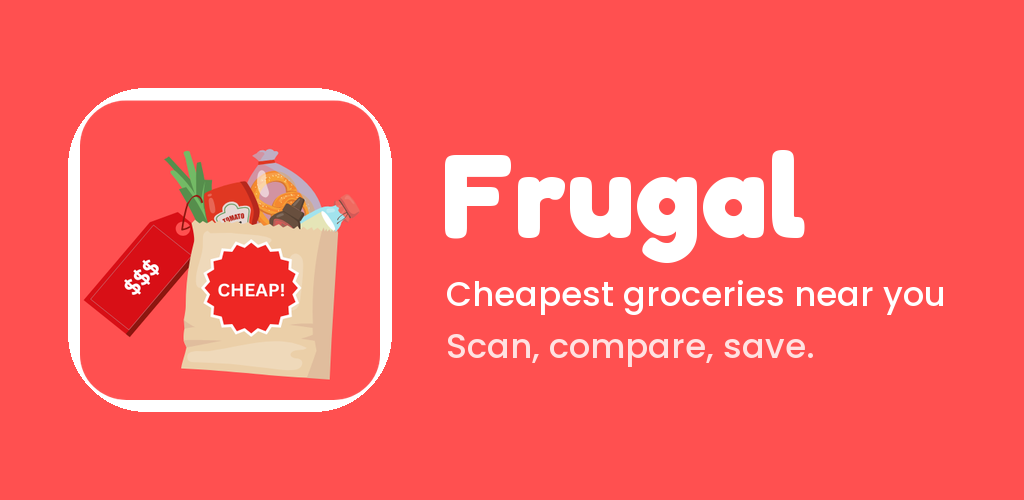
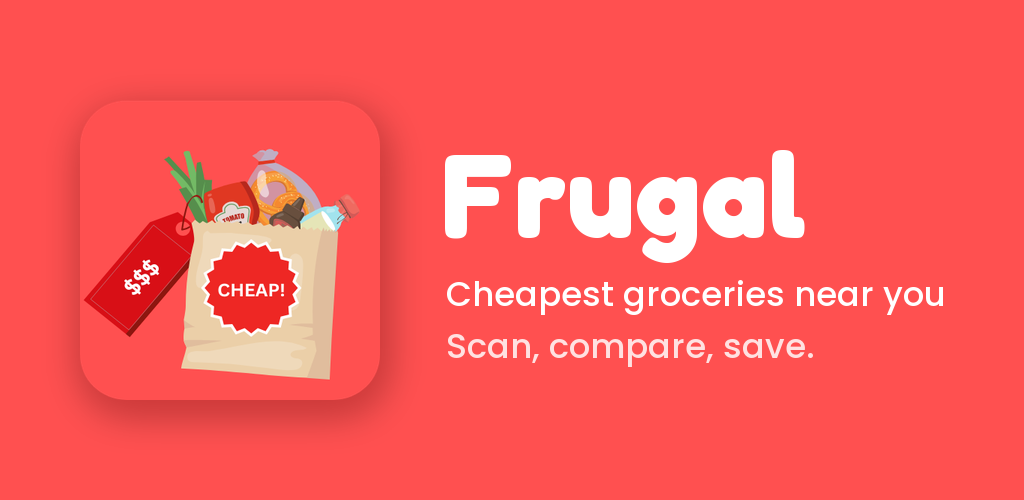
Read pack sizes from product photos, judge every listing, search major chains first

Changed region(s): [[0.0625, 0.21, 0.4062, 0.87], [0.0938, 0.15, 0.3438, 0.21]]

diff --git a/proxy/src/index.ts b/proxy/src/index.ts
@@ -15,7 +15,7 @@
  */
 
 import { extractResults, normalize, parseSize, rank, ShopItem, unitPriceOf, Unit } from './shopping';
-import { chainShortName, estimateSizes, identifyWithWorkersAi, judge, rerank, rewriteQuery, Identified } from './ai';
+import { chainShortName, estimateSizes, identifyWithWorkersAi, judge, readSizesFromPhotos, rerank, rewriteQuery, Identified } from './ai';
 import brandIndex from '../../src/services/brandIndex.json';
 
 interface Env {
@@ -155,7 +155,7 @@ async function canonicalLocation(location: string, gl: string, ctx: ExecutionCon
 const DOMAINS: Record<string, string> = { ca: 'google.ca', us: 'google.com', gb: 'google.co.uk', au: 'google.com.au', ie: 'google.ie', nz: 'google.co.nz', in: 'google.co.in' };
 const CACHE_SECONDS = 6 * 3600; // prices barely move within hours; caching saves quota and makes repeat searches instant
 // Bump whenever ranking/AI logic changes so users never see results ranked by old logic.
-const RANK_VERSION = 19;
+const RANK_VERSION = 26;
 
 type Query = { q: string; gl: string; location: string };
 type Raw = { r: any; nearbyGroup: boolean }[];
@@ -257,7 +257,13 @@ function chainOf(name: string, country: string): { id: string; name: string } | 
   return null;
 }
 
-const CHAIN_COUNT = 3;
+const CHAIN_COUNT = 5;
+// Where most people actually shop (Wikidata ids). Always searched first when there's one near the
+// shopper; the remaining slots go to whichever chains have the most branches nearby.
+const MAJOR_CHAINS: Record<string, string[]> = {
+  CA: ['Q483551' /* Walmart */, 'Q7300856' /* Real Canadian Superstore */, 'Q715583' /* Costco */],
+  US: ['Q483551' /* Walmart */, 'Q715583' /* Costco */, 'Q153417' /* Kroger */, 'Q1046951' /* Target */],
+};
 const CHAIN_RADIUS_KM = 15;
 const CHAIN_DEADLINE_MS = 14000;
 
@@ -269,7 +275,7 @@ async function nearbyChains(env: Env, lat: number, lon: number, gl: string, ctx:
   if (!env.STORES_DB || !isFinite(lat) || !isFinite(lon)) return [];
   const tLat = Math.round(lat * 10) / 10;
   const tLon = Math.round(lon * 10) / 10;
-  const key = `chains/v1/${gl}/${tLat}/${tLon}`;
+  const key = `chains/v2/${gl}/${tLat}/${tLon}`;
   const hit = await cacheGet(key);
   if (hit) return hit.chains;
 
@@ -292,9 +298,10 @@ async function nearbyChains(env: Env, lat: number, lon: number, gl: string, ctx:
     t.nearest = Math.min(t.nearest, km);
     tally.set(chain.id, t);
   }
+  const major = (id: string) => (MAJOR_CHAINS[country] ?? []).includes(id);
   const chains = [...tally.values()]
-    .filter((c) => c.count >= 2) // a real presence in the area, not a one-off
-    .sort((a, b) => b.count - a.count || a.nearest - b.nearest)
+    .filter((c) => major(c.id) || c.count >= 2) // a real presence in the area, not a one-off
+    .sort((a, b) => Number(major(b.id)) - Number(major(a.id)) || b.count - a.count || a.nearest - b.nearest)
     .slice(0, CHAIN_COUNT)
     .map(({ id, name }) => ({ id, name }));
   ctx.waitUntil(cachePut(key, { chains }, 7 * 86400));
@@ -417,7 +424,7 @@ async function shopping(url: URL, env: Env, ctx: ExecutionContext) {
   // "fresh apples produce", not iPhones). Cached for 30 days per search term.
   const [searchQ, chains] = await Promise.all([groceryQuery(env, q, ctx), nearbyChains(env, lat, lon, gl, ctx).catch(() => [])]);
   const started = Date.now();
-  const budget = { serp: 1 };
+  const budget = { serp: 2 };
   // Chain searches start now, in parallel with the general one; they're merged in step 3.
   const chainJob =
     env.BRIGHTDATA_API_KEY && chains.length
@@ -481,7 +488,42 @@ async function shopping(url: URL, env: Env, ctx: ExecutionContext) {
   return json(first, 200, { 'X-Source': found.source });
 }
 
+/**
+ * Each listing's product photo as a data URL, for reading the size off the package. Bright Data
+ * photos come from this search's image bundle (no download); others are fetched (capped).
+ */
+async function photosFor(items: ShopItem[]): Promise<(string | undefined)[]> {
+  const refs = items.map((i) => i.thumbnail?.match(/\/img\/([^/]+)\/([^/?#]+)$/));
+  const bundles = new Map<string, any>();
+  await Promise.all([...new Set(refs.filter(Boolean).map((m) => m![1]))].map(async (b) => bundles.set(b, await cacheGet(`imgs/${b}`))));
+  let fetched = 0;
+  return Promise.all(
+    items.map(async (it, i) => {
+      const m = refs[i];
+      if (m) {
+        const e = bundles.get(m[1])?.[m[2]];
+        return e ? `data:${e[0]};base64,${e[1]}` : undefined;
+      }
+      if (!it.thumbnail || !/^https:/.test(it.thumbnail) || fetched >= MAX_PHOTO_FETCHES) return undefined;
+      fetched++;
+      try {
+        const res = await withDeadline(fetch(it.thumbnail), 4000);
+        const buf = new Uint8Array(await res.arrayBuffer());
+        if (!res.ok || buf.length > 250000) return undefined;
+        let bin = '';
+        for (let j = 0; j < buf.length; j++) bin += String.fromCharCode(buf[j]);
+        return `data:${res.headers.get('content-type') ?? 'image/jpeg'};base64,${btoa(bin)}`;
+      } catch {
+        return undefined;
+      }
+    }),
+  );
+}
+
+const MAX_PHOTO_FETCHES = 12;
+
 const JUDGE_BATCH = 30;
+const MAX_BATCHES = 4;
 
 /**
  * Phase 1: judge the first results (what the shopper meant, missing sizes) in one AI call.
@@ -497,14 +539,50 @@ async function refine(url: URL, env: Env) {
   if (phase === 1 && current.judged) return json({ ok: true, skipped: true });
 
   const items: ShopItem[] = current.items.map((i: ShopItem) => ({ ...i }));
-  const known = phase === 2 && current.judged && current.meaning ? { meaning: current.meaning as string, unit: (current.unit ?? undefined) as Unit | undefined } : undefined;
+  const judgedAs = (m: string) => items.filter((i) => i.match === m).slice(0, 8).map((i) => i.title);
+  const known =
+    phase === 2 && current.judged && current.meaning
+      ? { meaning: current.meaning as string, unit: (current.unit ?? undefined) as Unit | undefined, exact: judgedAs('exact'), variant: judgedAs('variant') }
+      : undefined;
   const todo = items.filter((i) => !i.match);
-  const candidates = [...todo].sort((a, b) => (b.score ?? 0) - (a.score ?? 0)).slice(0, JUDGE_BATCH);
-  // What the shopper meant, and likely sizes for listings that don't state one: two AI calls at once.
+  // Every listing gets judged (a store's best deal can be anywhere in the list), in batches that run
+  // at the same time. The first batch settles what the shopper meant; the others are told, so they agree.
+  const candidates = [...todo].sort((a, b) => (b.score ?? 0) - (a.score ?? 0)).slice(0, JUDGE_BATCH * MAX_BATCHES);
+  const batches: ShopItem[][] = [];
+  for (let i = 0; i < candidates.length; i += JUDGE_BATCH) batches.push(candidates.slice(i, i + JUDGE_BATCH));
   const unsized = candidates.filter((c) => !c.size);
-  const [verdict, guesses] = candidates.length
-    ? await Promise.all([judge(env, q, candidates.map((c) => c.title), known), estimateSizes(env, q, unsized.map((c) => c.title))])
-    : [null, null];
+  const sizeBatches: ShopItem[][] = [];
+  for (let i = 0; i < unsized.length; i += JUDGE_BATCH) sizeBatches.push(unsized.slice(i, i + JUDGE_BATCH));
+
+  // Stated sizes (not earlier estimates) as price references, spread across sizes.
+  const references = items
+    .filter((i) => i.size && !i.size.estimated)
+    .sort((a, b) => a.size!.amount - b.size!.amount)
+    .filter((_, i, all) => all.length <= 14 || i % Math.ceil(all.length / 14) === 0)
+    .map((i) => ({ title: i.title, price: i.price, size: i.size!.label }));
+  const sizeJob = Promise.all(sizeBatches.map((b) => estimateSizes(env, q, b.map((c) => ({ title: c.title, price: c.price })), references)));
+  // The size printed on the package, read from each listing's photo: the real size, not a guess.
+  const photoJob = photosFor(unsized).then((imgs) => {
+    const withImg = unsized.map((c, i) => ({ c, image: imgs[i] })).filter((x): x is { c: ShopItem; image: string } => !!x.image);
+    return readSizesFromPhotos(env, withImg.map((x) => ({ title: x.c.title, image: x.image }))).then(
+      (sizes) => new Map(withImg.map((x, i) => [x.c, sizes[i]] as const)),
+    );
+  });
+  const first = batches.length ? await judge(env, q, batches[0].map((c) => c.title), known) : null;
+  const rest = first
+    ? await Promise.all(
+        batches.slice(1).map((b) =>
+          judge(env, q, b.map((c) => c.title), {
+            meaning: first.meaning,
+            unit: first.unit,
+            exact: batches[0].filter((_, i) => first.exact.has(i)).slice(0, 8).map((c) => c.title),
+            variant: batches[0].filter((_, i) => first.variant.has(i)).slice(0, 8).map((c) => c.title),
+          }),
+        ),
+      )
+    : [];
+  const verdict = first;
+  const guesses = (await sizeJob).flatMap((g, i) => g ?? sizeBatches[i].map(() => null));
 
   if (!verdict) {
     // Nothing (more) to judge, or the AI is unavailable: keep what we have, mark as done.
@@ -514,19 +592,29 @@ async function refine(url: URL, env: Env) {
   }
 
   const unit = verdict.unit;
-  candidates.forEach((c, idx) => {
-    c.match = verdict.exact.has(idx) ? 'exact' : verdict.variant.has(idx) ? 'variant' : 'related';
+  batches.forEach((batch, b) => {
+    const v = b === 0 ? verdict : rest[b - 1];
+    batch.forEach((c, idx) => {
+      c.match = !v ? 'related' : v.exact.has(idx) ? 'exact' : v.variant.has(idx) ? 'variant' : 'related';
+    });
   });
+  const fromPhotos = await photoJob.catch(() => new Map<ShopItem, string | null>());
+  const toSize = (text: string | null | undefined) => {
+    if (!text || !unit) return undefined;
+    let size = parseSize(text);
+    const n = parseFloat(text);
+    if (!size && unit === 'each' && n > 0) size = { amount: n, unit: 'each' as const, label: `${n} ct` };
+    return size && size.unit === unit ? size : undefined;
+  };
   unsized.forEach((c, idx) => {
-    const guess = guesses?.[idx];
-    if (!guess || c.match === 'related' || !unit) return;
-    let size = parseSize(guess);
-    const n = parseFloat(guess);
-    if (!size && unit === 'each' && n > 0) size = { amount: n, unit: 'each', label: `${n} ct` };
-    if (size && size.unit === unit) {
-      c.size = { ...size, estimated: true };
-      c.unitPrice = unitPriceOf(c.price, c.size);
-    }
+    if (c.match === 'related') return;
+    // Printed on the package beats the AI's estimate (which stays marked "est.").
+    const printed = toSize(fromPhotos.get(c));
+    const guessed = printed ? undefined : toSize(guesses?.[idx]);
+    const size = printed ?? guessed;
+    if (!size) return;
+    c.size = { ...size, estimated: !printed };
+    c.unitPrice = unitPriceOf(c.price, c.size);
   });
   const byId = new Map(candidates.map((c) => [c.id + c.seller + c.title + c.price, c]));
   const refined = items.map((i) => byId.get(i.id + i.seller + i.title + i.price) ?? { ...i, match: i.match ?? 'related' });

diff --git a/proxy/src/ai.ts b/proxy/src/ai.ts
@@ -10,6 +10,12 @@ const RERANKER = '@cf/baai/bge-reranker-base';
 const JUDGE = '@cf/meta/llama-3.3-70b-instruct-fp8-fast';
 const VISION = '@cf/meta/llama-4-scout-17b-16e-instruct';
 
+/** The reply text or object, whichever shape the model returns (Llama, OpenAI-style or Responses-style). */
+const replyOf = (out: any) =>
+  out?.response ??
+  out?.choices?.[0]?.message?.content ??
+  out?.output?.find?.((o: any) => o.type === 'message')?.content?.find?.((c: any) => c.type === 'output_text')?.text;
+
 const withTimeout = <T>(p: Promise<T>, ms: number) =>
   Promise.race([p, new Promise<null>((resolve) => setTimeout(() => resolve(null), ms))]);
 
@@ -35,7 +41,8 @@ const JUDGE_PROMPT =
   'specific — a brand, flavour or size — that is what they mean). Write that meaning as a concrete description of ' +
   'the product (its kind and usual form), not just the words typed. Then, from the numbered store listings, return ' +
   'the numbers of listings that ARE that product as "exact" (ordinary differences such as brand, pack size, grade, ' +
-  'colour, fat level or organic still count as that product), and listings of the same product ' +
+  'colour, fat level or organic still count as that product; but anything a store would shelve under its own name, ' +
+  'such as a different flavour, a different source animal or plant, or a differently made product, is not), and listings of the same product ' +
   'family but a different kind (another flavour, plant-based, lactose-free, a different form or format, a different ' +
   'edition, or used / refurbished / collectible / first-edition copies, or bulk wholesale cases meant for businesses) as "variant". ' +
   'Leave out anything else. Also give the unit its value is normally compared in, and the product category. ' +
@@ -47,12 +54,24 @@ const JUDGE_PROMPT =
  * Which listings are the product the shopper meant (~3 s), run after results are sent. Pass
  * `known` to judge more listings for a search that was already understood, so both batches agree.
  */
-export async function judge(env: AiEnv, query: string, titles: string[], known?: { meaning: string; unit?: Unit }): Promise<Judgement | null> {
+export async function judge(
+  env: AiEnv,
+  query: string,
+  titles: string[],
+  known?: { meaning: string; unit?: Unit; exact?: string[]; variant?: string[] },
+  model = JUDGE,
+): Promise<Judgement | null> {
   if (!env.AI || !titles.length) return null;
   try {
-    const context = known ? `\nThe shopper means: ${known.meaning}${known.unit ? ` (compared per ${known.unit})` : ''}.` : '';
+    // Earlier decisions for this search keep a later batch consistent with the first one.
+    const examples = (label: string, list?: string[]) => (list?.length ? `\n${label}: ${list.join('; ')}` : '');
+    const context = known
+      ? `\nThe shopper means: ${known.meaning}${known.unit ? ` (compared per ${known.unit})` : ''}.` +
+        examples('Already judged exact', known.exact) +
+        examples('Already judged variant', known.variant)
+      : '';
     const out: any = await withTimeout(
-      env.AI.run(JUDGE, {
+      env.AI.run(model, {
         messages: [
           { role: 'system', content: JUDGE_PROMPT },
           { role: 'user', content: `Search: "${query}"${context}\n${titles.map((t, i) => `${i}: ${t}`).join('\n')}` },
@@ -63,8 +82,8 @@ export async function judge(env: AiEnv, query: string, titles: string[], known?:
       }),
       12000,
     );
-    let r = out?.response;
-    if (typeof r === 'string') r = JSON.parse(r);
+    let r = replyOf(out);
+    if (typeof r === 'string') r = JSON.parse(r.replace(/^[^{]*/, '').replace(/[^}]*$/, ''));
     if (!r || !Array.isArray(r.exact)) return null;
     const ints = (a: unknown) => new Set((Array.isArray(a) ? a : []).filter((n): n is number => Number.isInteger(n) && n >= 0 && n < titles.length));
     return {
@@ -80,23 +99,40 @@ export async function judge(env: AiEnv, query: string, titles: string[], known?:
 }
 
 const SIZE_PROMPT =
-  'Each numbered store listing below is missing its package size. For each one that is normally sold in one standard ' +
-  'size, give that size (e.g. a carton of eggs in Canada is 12 eggs; one medium apple weighs about 180 g, one banana ' +
-  'about 120 g; a single item sold "each" is 1). If the product is commonly sold in several different sizes and the ' +
-  'title gives no hint which, leave it out rather than guess. Respond as JSON: {"sizes": {"<number>": "<size>"}}';
+  "Each numbered store listing below (title and shelf price, from a store in the shopper's country) is missing its " +
+  'package size. Work out the size it is sold in, in this order: ' +
+  '1) a pack word in the title decides it: a format with one standard size in that country (a milk "jug", a "bag" of ' +
+  'milk, a "club pack" / "CP", "family size", a "dozen") is that standard size, whatever the price; ' +
+  '2) your knowledge of that exact product; ' +
+  '3) the price, compared with the reference listings that state their size: pick the size whose price per amount ' +
+  'is in line with them (a price close to a reference 1 L carton is a 1 L carton, not a 4 L jug); ' +
+  '4) products that only come in one size (a carton of eggs is 12; one banana about 120 g, one apple about 180 g; an ' +
+  'item sold "each" is 1). Leave it out only if you have no idea what the product is. ' +
+  'Respond as JSON: {"sizes": {"<number>": "<size like 4 L, 2.27 kg, 12 eggs>"}}';
 
 /** Likely pack size for listings whose titles don't state one (marked "est." in the app). Runs alongside judge(). */
-export async function estimateSizes(env: AiEnv, query: string, titles: string[]): Promise<(string | null)[] | null> {
-  if (!env.AI || !titles.length) return null;
+export async function estimateSizes(
+  env: AiEnv,
+  query: string,
+  listings: { title: string; price: number }[],
+  references: { title: string; price: number; size: string }[] = [],
+): Promise<(string | null)[] | null> {
+  if (!env.AI || !listings.length) return null;
+  const titles = listings.map((l) => l.title);
+  // Listings from the same search that state their size show what each size really costs around
+  // here, so a price can be matched to the right pack (a $3 carton isn't a 4 L jug).
+  const refs = references.length
+    ? `\nFor reference, listings in this search that state their size:\n${references.map((r) => `- ${r.title}: ${r.size} for $${r.price.toFixed(2)}`).join('\n')}\n\nListings to size:`
+    : '';
   try {
     const out: any = await withTimeout(
       env.AI.run(JUDGE, {
         messages: [
           { role: 'system', content: SIZE_PROMPT },
-          { role: 'user', content: `Search: "${query}"\n${titles.map((t, i) => `${i}: ${t}`).join('\n')}` },
+          { role: 'user', content: `Search: "${query}"${refs}\n${listings.map((l, i) => `${i}: ${l.title} ($${l.price.toFixed(2)})`).join('\n')}` },
         ],
         response_format: { type: 'json_object' },
-        max_tokens: 400,
+        max_tokens: 500,
         temperature: 0,
       }),
       12000,
@@ -216,4 +252,47 @@ export async function chainShortName(env: AiEnv, chain: string): Promise<string 
   } catch {
     return null;
   }
+}
+
+const PHOTO_SIZE_PROMPT =
+  'Below are numbered store listings, each with its product photo. For each, read the net package size printed on ' +
+  'the product (e.g. 4 L, 2 L, 946 mL, 2.27 kg, 400 g, 12 eggs). For a multipack give the total. Use null when the size ' +
+  'is not readable in the photo. Respond as JSON: {"sizes": {"<number>": "<size>" | null}}';
+
+const PHOTOS_PER_CALL = 6;
+
+/**
+ * Package sizes read off the product photos (the size printed on the label), for listings whose
+ * titles don't state one. ~0.7 s per call of 6 photos; calls run in parallel.
+ */
+export async function readSizesFromPhotos(env: AiEnv, listings: { title: string; image: string }[]): Promise<(string | null)[]> {
+  const out: (string | null)[] = listings.map(() => null);
+  if (!env.AI || !listings.length) return out;
+  const groups: number[][] = [];
+  for (let i = 0; i < listings.length; i += PHOTOS_PER_CALL) groups.push(listings.slice(i, i + PHOTOS_PER_CALL).map((_, j) => i + j));
+  await Promise.all(
+    groups.map(async (idx) => {
+      try {
+        const content: any[] = [{ type: 'text', text: PHOTO_SIZE_PROMPT }];
+        idx.forEach((g, n) => {
+          content.push({ type: 'text', text: `${n}: ${listings[g].title}` });
+          content.push({ type: 'image_url', image_url: { url: listings[g].image } });
+        });
+        const res: any = await withTimeout(
+          env.AI!.run(VISION, { messages: [{ role: 'user', content }], response_format: { type: 'json_object' }, max_tokens: 200, temperature: 0 }),
+          10000,
+        );
+        let r = replyOf(res);
+        if (typeof r === 'string') r = JSON.parse(r.replace(/^[^{]*/, '').replace(/[^}]*$/, ''));
+        const sizes = r?.sizes ?? {};
+        idx.forEach((g, n) => {
+          const v = sizes[n] ?? sizes[String(n)];
+          if (typeof v === 'string' && v.trim() && !/null|unknown|n\/a/i.test(v)) out[g] = v.trim();
+        });
+      } catch {
+        // leave these unread
+      }
+    }),
+  );
+  return out;
 }

diff --git a/scripts/make-store-graphics.py b/scripts/make-store-graphics.py
@@ -32,12 +32,17 @@ font_dir = os.path.join(root, "node_modules", "@expo-google-fonts")
 title = ImageFont.truetype(os.path.join(font_dir, "fredoka", "700Bold", "Fredoka_700Bold.ttf"), 120)
 tag = ImageFont.truetype(os.path.join(font_dir, "poppins", "500Medium", "Poppins_500Medium.ttf"), 34)
 
-# the logo keeps its own rounded corners; a white ring sits just outside them
+# the logo sits on a soft darker shadow so it lifts off the red background
+from PIL import ImageFilter
 logo = square.resize((300, 300), Image.LANCZOS)
-plate = Image.new("RGBA", (324, 324), (0, 0, 0, 0))
-ImageDraw.Draw(plate).rounded_rectangle((0, 0, 323, 323), radius=78, fill=(255, 255, 255, 255))
-fg.paste(plate, (68, 88), plate)
+shadow = Image.new("RGBA", (W, H), (0, 0, 0, 0))
+mask = logo.split()[3]
+shadow.paste((150, 20, 20, 110), (84, 112), mask)
+shadow = shadow.filter(ImageFilter.GaussianBlur(18))
+fg = Image.alpha_composite(fg.convert("RGBA"), shadow)
 fg.paste(logo, (80, 100), logo)
+fg = fg.convert("RGB")
+draw = ImageDraw.Draw(fg)
 
 draw.text((440, 120), "Frugal", font=title, fill=(255, 255, 255))
 draw.text((446, 270), "Cheapest groceries near you", font=tag, fill=(255, 255, 255))
